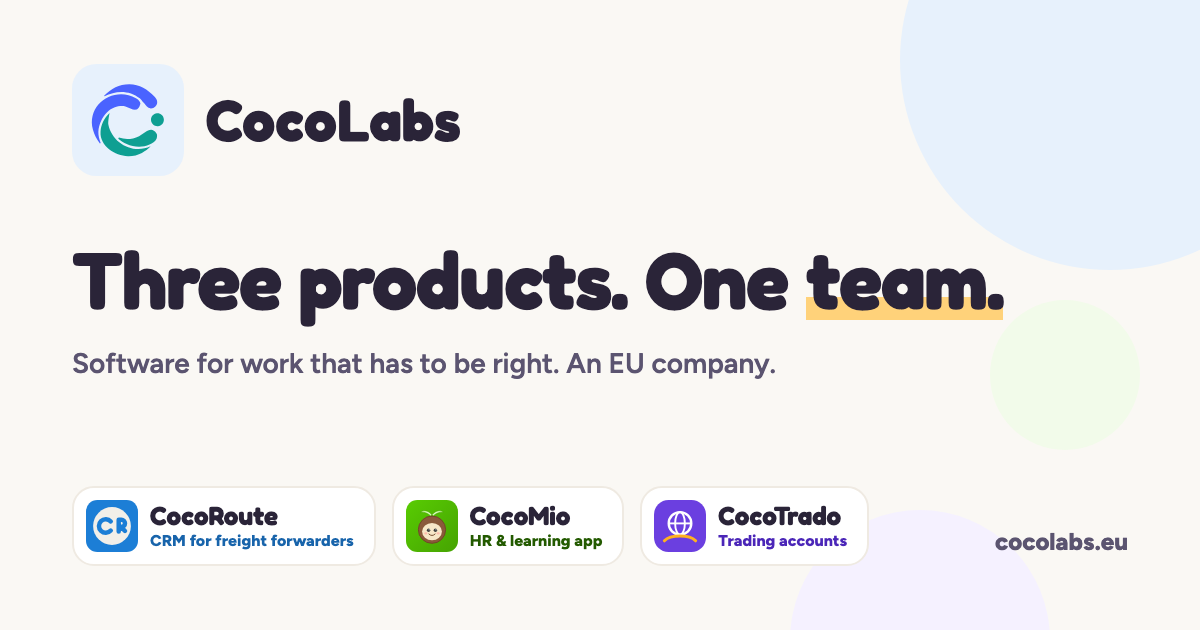
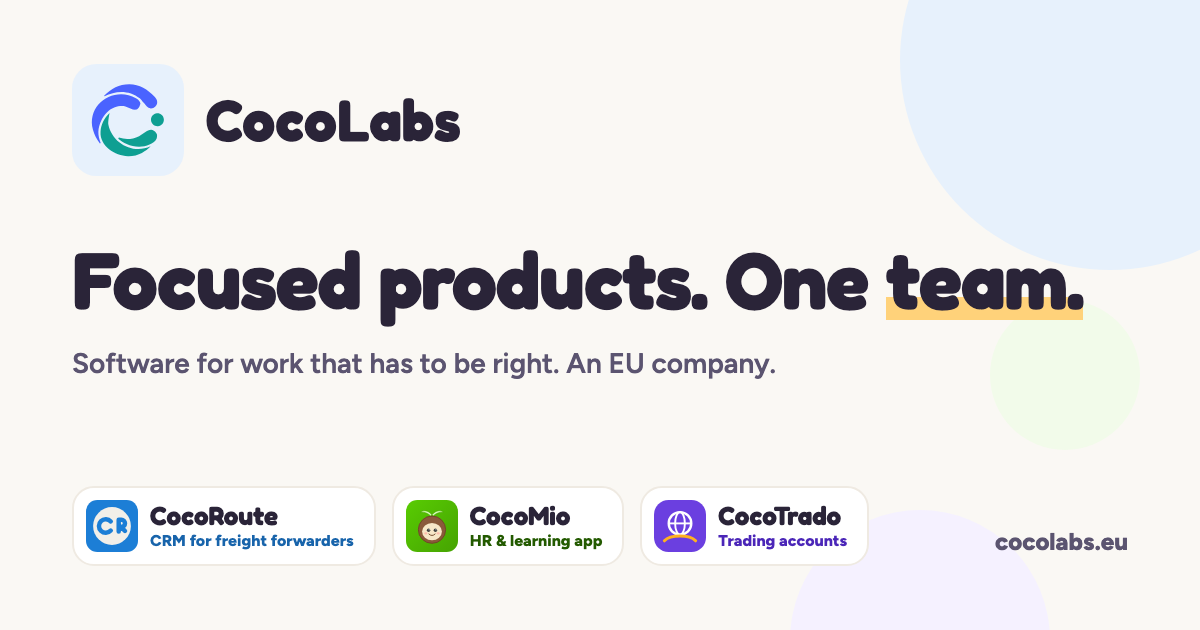
content: hero and share card say "Focused products. One team."
The old line named the number of products, which won't hold once more
products launch.

Changed region(s): [[0.0617, 0.3921, 0.925, 0.5127]]

diff --git a/index.html b/index.html
@@ -9,13 +9,13 @@
 <!-- Share card for link previews (LinkedIn, WhatsApp, Slack); build-products.js adds the same to the other pages -->
 <meta property="og:type" content="website">
 <meta property="og:site_name" content="CocoLabs">
-<meta property="og:title" content="CocoLabs · Three products. One team.">
+<meta property="og:title" content="CocoLabs · Focused products. One team.">
 <meta property="og:description" content="CocoLabs makes separate products for different jobs: CocoRoute, a CRM for freight forwarders; CocoMio for HR and learning; and CocoTrado for trading accounts.">
 <meta property="og:url" content="https://cocolabs.eu/">
 <meta property="og:image" content="https://cocolabs.eu/og-image.png">
 <meta property="og:image:width" content="1200">
 <meta property="og:image:height" content="630">
-<meta property="og:image:alt" content="CocoLabs: three products, one team">
+<meta property="og:image:alt" content="CocoLabs: focused products, one team">
 <meta name="twitter:card" content="summary_large_image">
 <link rel="icon" href="logo.svg" type="image/svg+xml">
 <link rel="apple-touch-icon" href="apple-touch-icon.png">
@@ -534,7 +534,7 @@ body{transition:background-color .6s ease,color .6s ease}
     5. At a glance table    one <th> and one <td> per row
   Add its logo as a <symbol id="logo-NAME"> and its colours as --NAME-* tokens next to --route-*.
     6. Its own page          add an entry to products-data.js (and to product.css's body[data-product] colours), then run: node build-products.js
-  Everything else updates itself: the product count in the copy ("Four products. One team."),
+  Everything else updates itself: the product count in the copy ("Compare all four"),
   "PRODUCT 2 OF 4" labels, left/right alternation of the timeline, and the tile layout.
 -->
 
@@ -549,7 +549,7 @@ body{transition:background-color .6s ease,color .6s ease}
     <a class="float f2" href="#trado" aria-label="Jump to CocoTrado"><svg class="logo" width="58" height="58" aria-hidden="true"><use href="#logo-trado"/></svg></a>
     <a class="float f3" href="#mio" aria-label="Jump to CocoMio"><svg class="logo" width="60" height="60" aria-hidden="true"><use href="#logo-mio"/></svg></a>
     <span class="pill pop">CocoLabs · An EU software company</span>
-    <h1 aria-label="Three products. One team." data-count-label data-rotate="People. Money. *Freight.*|Less admin. More *done.*|Pick one, or use them *all.*|Simple software. Serious *work.*|Goodbye, messy *spreadsheets.*|Made for real *working days.*"><span class="w" style="--d:0" data-count="word">Three</span> <span class="w" style="--d:1">products.</span> <span class="w" style="--d:2">One</span> <span class="w hl" style="--d:3">team.</span></h1>
+    <h1 aria-label="Focused products. One team." data-rotate="People. Money. *Freight.*|Less admin. More *done.*|Pick one, or use them *all.*|Simple software. Serious *work.*|Goodbye, messy *spreadsheets.*|Made for real *working days.*"><span class="w" style="--d:0">Focused</span> <span class="w" style="--d:1">products.</span> <span class="w" style="--d:2">One</span> <span class="w hl" style="--d:3">team.</span></h1>
     <p class="rise">What would make your day lighter? Each product below is separate, with its own website. Pick the one that fits, or use all <span data-count="lower">three</span>.</p>
   </section>
 

diff --git a/build-products.js b/build-products.js
@@ -116,7 +116,7 @@ function head(title,desc,path,extra){
    '<meta property="og:type" content="website">\n<meta property="og:site_name" content="CocoLabs">\n'+
    '<meta property="og:title" content="'+esc(title)+'">\n<meta property="og:description" content="'+esc(desc)+'">\n'+(url?'<meta property="og:url" content="'+url+'">\n':'')+
    '<meta property="og:image" content="'+COMPANY.site+'/og-image.png">\n<meta property="og:image:width" content="1200">\n<meta property="og:image:height" content="630">\n'+
-   '<meta property="og:image:alt" content="CocoLabs: three products, one team">\n<meta name="twitter:card" content="summary_large_image">\n'+
+   '<meta property="og:image:alt" content="CocoLabs: focused products, one team">\n<meta name="twitter:card" content="summary_large_image">\n'+
    '<link rel="icon" href="logo.svg" type="image/svg+xml">\n<link rel="apple-touch-icon" href="apple-touch-icon.png">\n'+
    '<link rel="preconnect" href="https://fonts.googleapis.com">\n<link rel="preconnect" href="https://fonts.gstatic.com" crossorigin>\n'+
    '<link rel="stylesheet" href="https://fonts.googleapis.com/css2?family=Fredoka:wght@500;600;700&family=Figtree:wght@400;500;600;700;800&display=swap">\n'+

diff --git a/404.html b/404.html
@@ -14,7 +14,7 @@
 <meta property="og:image" content="https://cocolabs.eu/og-image.png">
 <meta property="og:image:width" content="1200">
 <meta property="og:image:height" content="630">
-<meta property="og:image:alt" content="CocoLabs: three products, one team">
+<meta property="og:image:alt" content="CocoLabs: focused products, one team">
 <meta name="twitter:card" content="summary_large_image">
 <link rel="icon" href="logo.svg" type="image/svg+xml">
 <link rel="apple-touch-icon" href="apple-touch-icon.png">

diff --git a/about.html b/about.html
@@ -14,7 +14,7 @@
 <meta property="og:image" content="https://cocolabs.eu/og-image.png">
 <meta property="og:image:width" content="1200">
 <meta property="og:image:height" content="630">
-<meta property="og:image:alt" content="CocoLabs: three products, one team">
+<meta property="og:image:alt" content="CocoLabs: focused products, one team">
 <meta name="twitter:card" content="summary_large_image">
 <link rel="icon" href="logo.svg" type="image/svg+xml">
 <link rel="apple-touch-icon" href="apple-touch-icon.png">

diff --git a/cocomio.html b/cocomio.html
@@ -14,7 +14,7 @@
 <meta property="og:image" content="https://cocolabs.eu/og-image.png">
 <meta property="og:image:width" content="1200">
 <meta property="og:image:height" content="630">
-<meta property="og:image:alt" content="CocoLabs: three products, one team">
+<meta property="og:image:alt" content="CocoLabs: focused products, one team">
 <meta name="twitter:card" content="summary_large_image">
 <link rel="icon" href="logo.svg" type="image/svg+xml">
 <link rel="apple-touch-icon" href="apple-touch-icon.png">

diff --git a/cocoroute.html b/cocoroute.html
@@ -14,7 +14,7 @@
 <meta property="og:image" content="https://cocolabs.eu/og-image.png">
 <meta property="og:image:width" content="1200">
 <meta property="og:image:height" content="630">
-<meta property="og:image:alt" content="CocoLabs: three products, one team">
+<meta property="og:image:alt" content="CocoLabs: focused products, one team">
 <meta name="twitter:card" content="summary_large_image">
 <link rel="icon" href="logo.svg" type="image/svg+xml">
 <link rel="apple-touch-icon" href="apple-touch-icon.png">

diff --git a/cocotrado.html b/cocotrado.html
@@ -14,7 +14,7 @@
 <meta property="og:image" content="https://cocolabs.eu/og-image.png">
 <meta property="og:image:width" content="1200">
 <meta property="og:image:height" content="630">
-<meta property="og:image:alt" content="CocoLabs: three products, one team">
+<meta property="og:image:alt" content="CocoLabs: focused products, one team">
 <meta name="twitter:card" content="summary_large_image">
 <link rel="icon" href="logo.svg" type="image/svg+xml">
 <link rel="apple-touch-icon" href="apple-touch-icon.png">

diff --git a/company.html b/company.html
@@ -14,7 +14,7 @@
 <meta property="og:image" content="https://cocolabs.eu/og-image.png">
 <meta property="og:image:width" content="1200">
 <meta property="og:image:height" content="630">
-<meta property="og:image:alt" content="CocoLabs: three products, one team">
+<meta property="og:image:alt" content="CocoLabs: focused products, one team">
 <meta name="twitter:card" content="summary_large_image">
 <link rel="icon" href="logo.svg" type="image/svg+xml">
 <link rel="apple-touch-icon" href="apple-touch-icon.png">

diff --git a/privacy.html b/privacy.html
@@ -14,7 +14,7 @@
 <meta property="og:image" content="https://cocolabs.eu/og-image.png">
 <meta property="og:image:width" content="1200">
 <meta property="og:image:height" content="630">
-<meta property="og:image:alt" content="CocoLabs: three products, one team">
+<meta property="og:image:alt" content="CocoLabs: focused products, one team">
 <meta name="twitter:card" content="summary_large_image">
 <link rel="icon" href="logo.svg" type="image/svg+xml">
 <link rel="apple-touch-icon" href="apple-touch-icon.png">

diff --git a/terms.html b/terms.html
@@ -14,7 +14,7 @@
 <meta property="og:image" content="https://cocolabs.eu/og-image.png">
 <meta property="og:image:width" content="1200">
 <meta property="og:image:height" content="630">
-<meta property="og:image:alt" content="CocoLabs: three products, one team">
+<meta property="og:image:alt" content="CocoLabs: focused products, one team">
 <meta name="twitter:card" content="summary_large_image">
 <link rel="icon" href="logo.svg" type="image/svg+xml">
 <link rel="apple-touch-icon" href="apple-touch-icon.png">

diff --git a/README.md b/README.md
@@ -60,4 +60,4 @@ While `FORM_KEY` is empty, or if sending fails, the form opens the visitor's ema
 3. On the home page, copy one product block in the five places listed in the comment at the top of `<main>` in `index.html`.
 4. Run `npm run build`.
 
-Everything count-based ("Four products. One team.", "PRODUCT 2 OF 4", the tile layout) updates itself.
+Everything count-based ("Compare all four", "PRODUCT 2 OF 4", the tile layout) updates itself.
